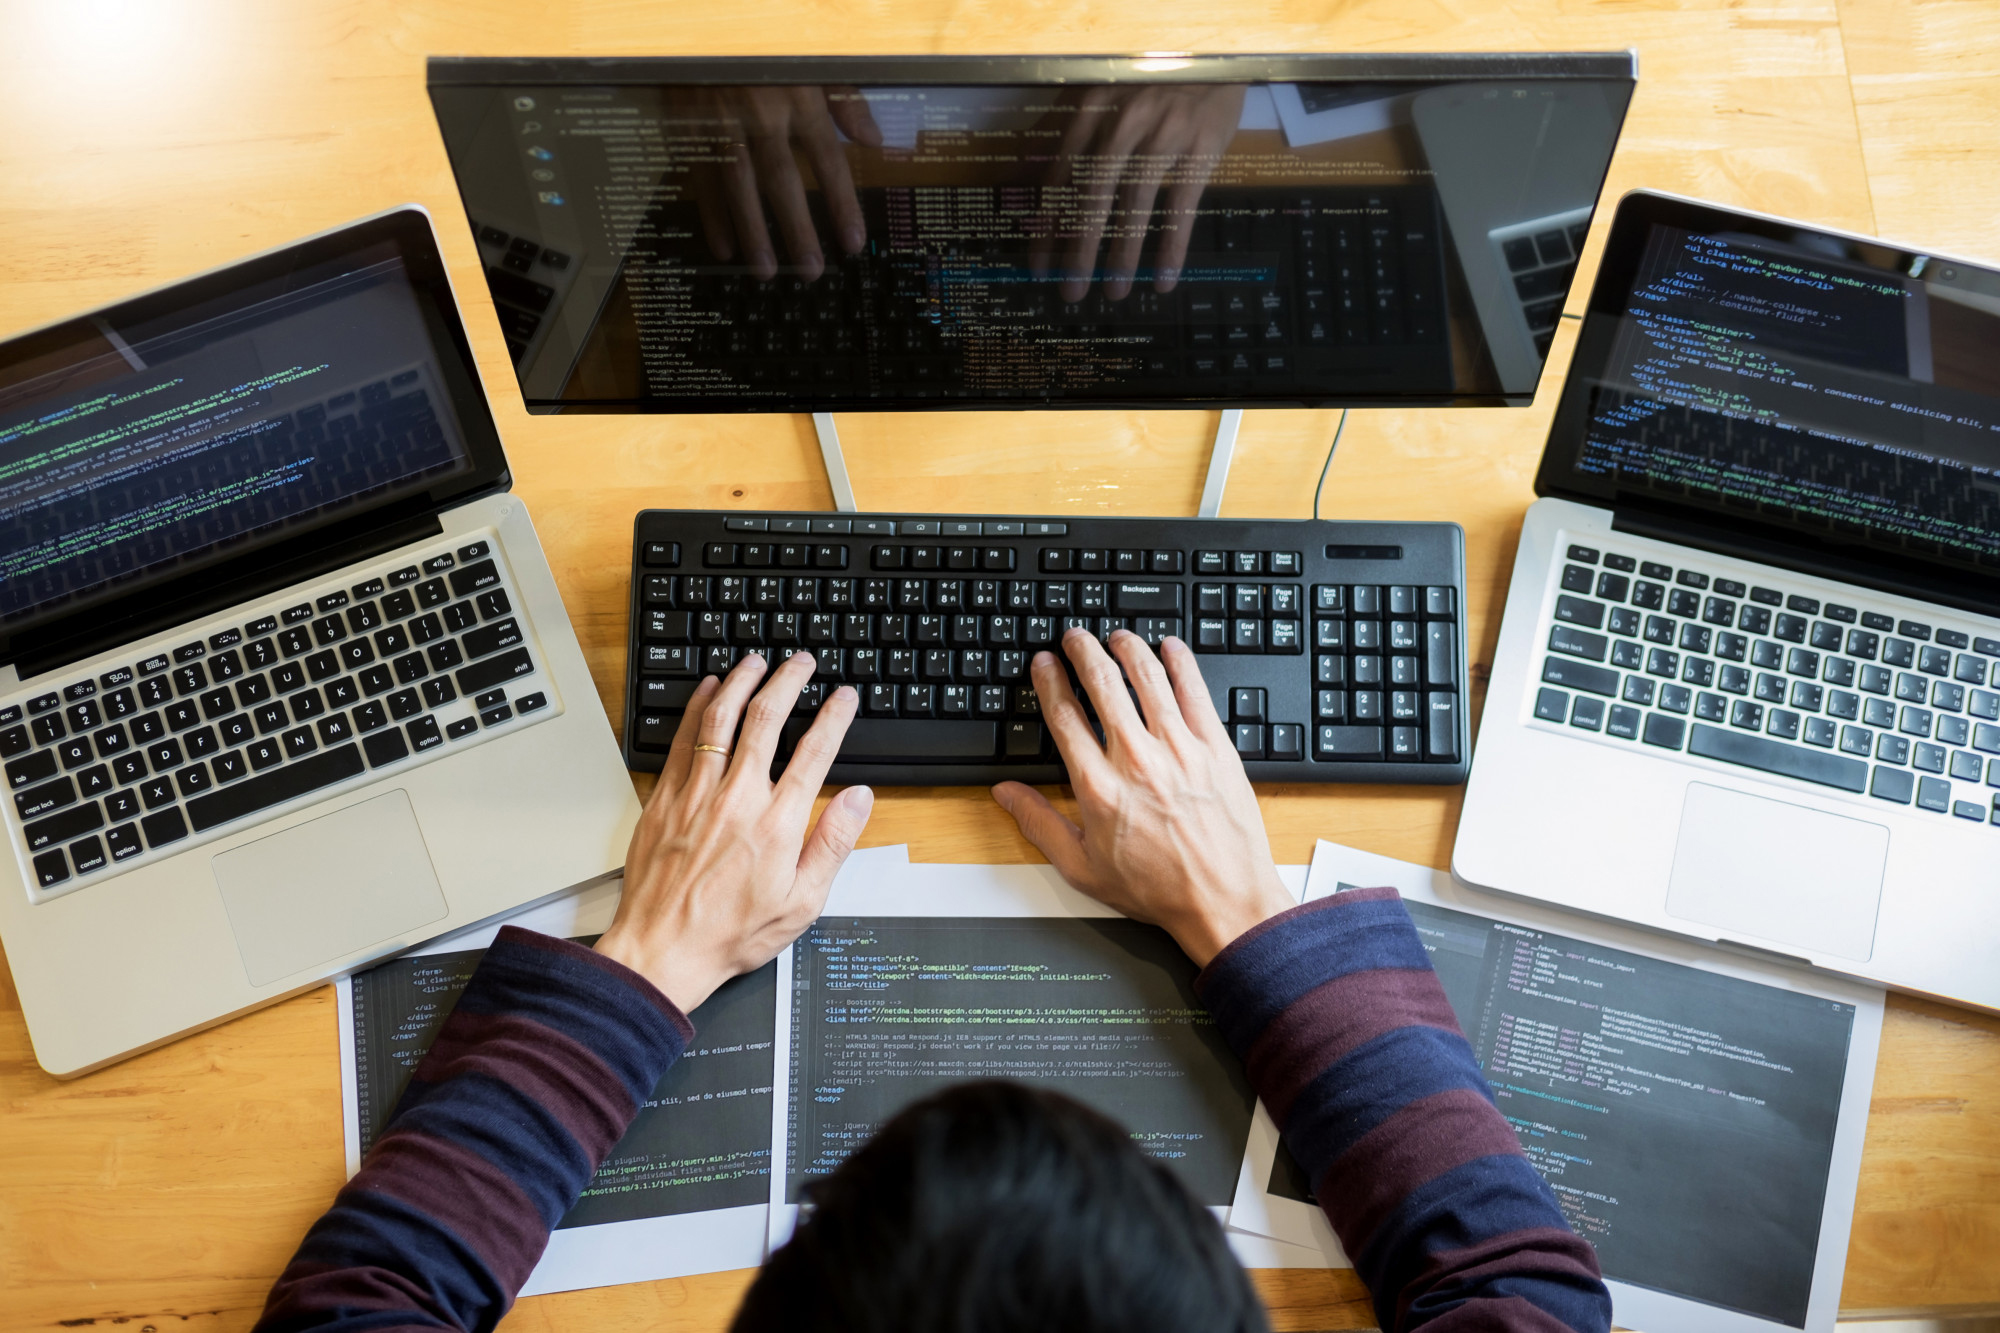
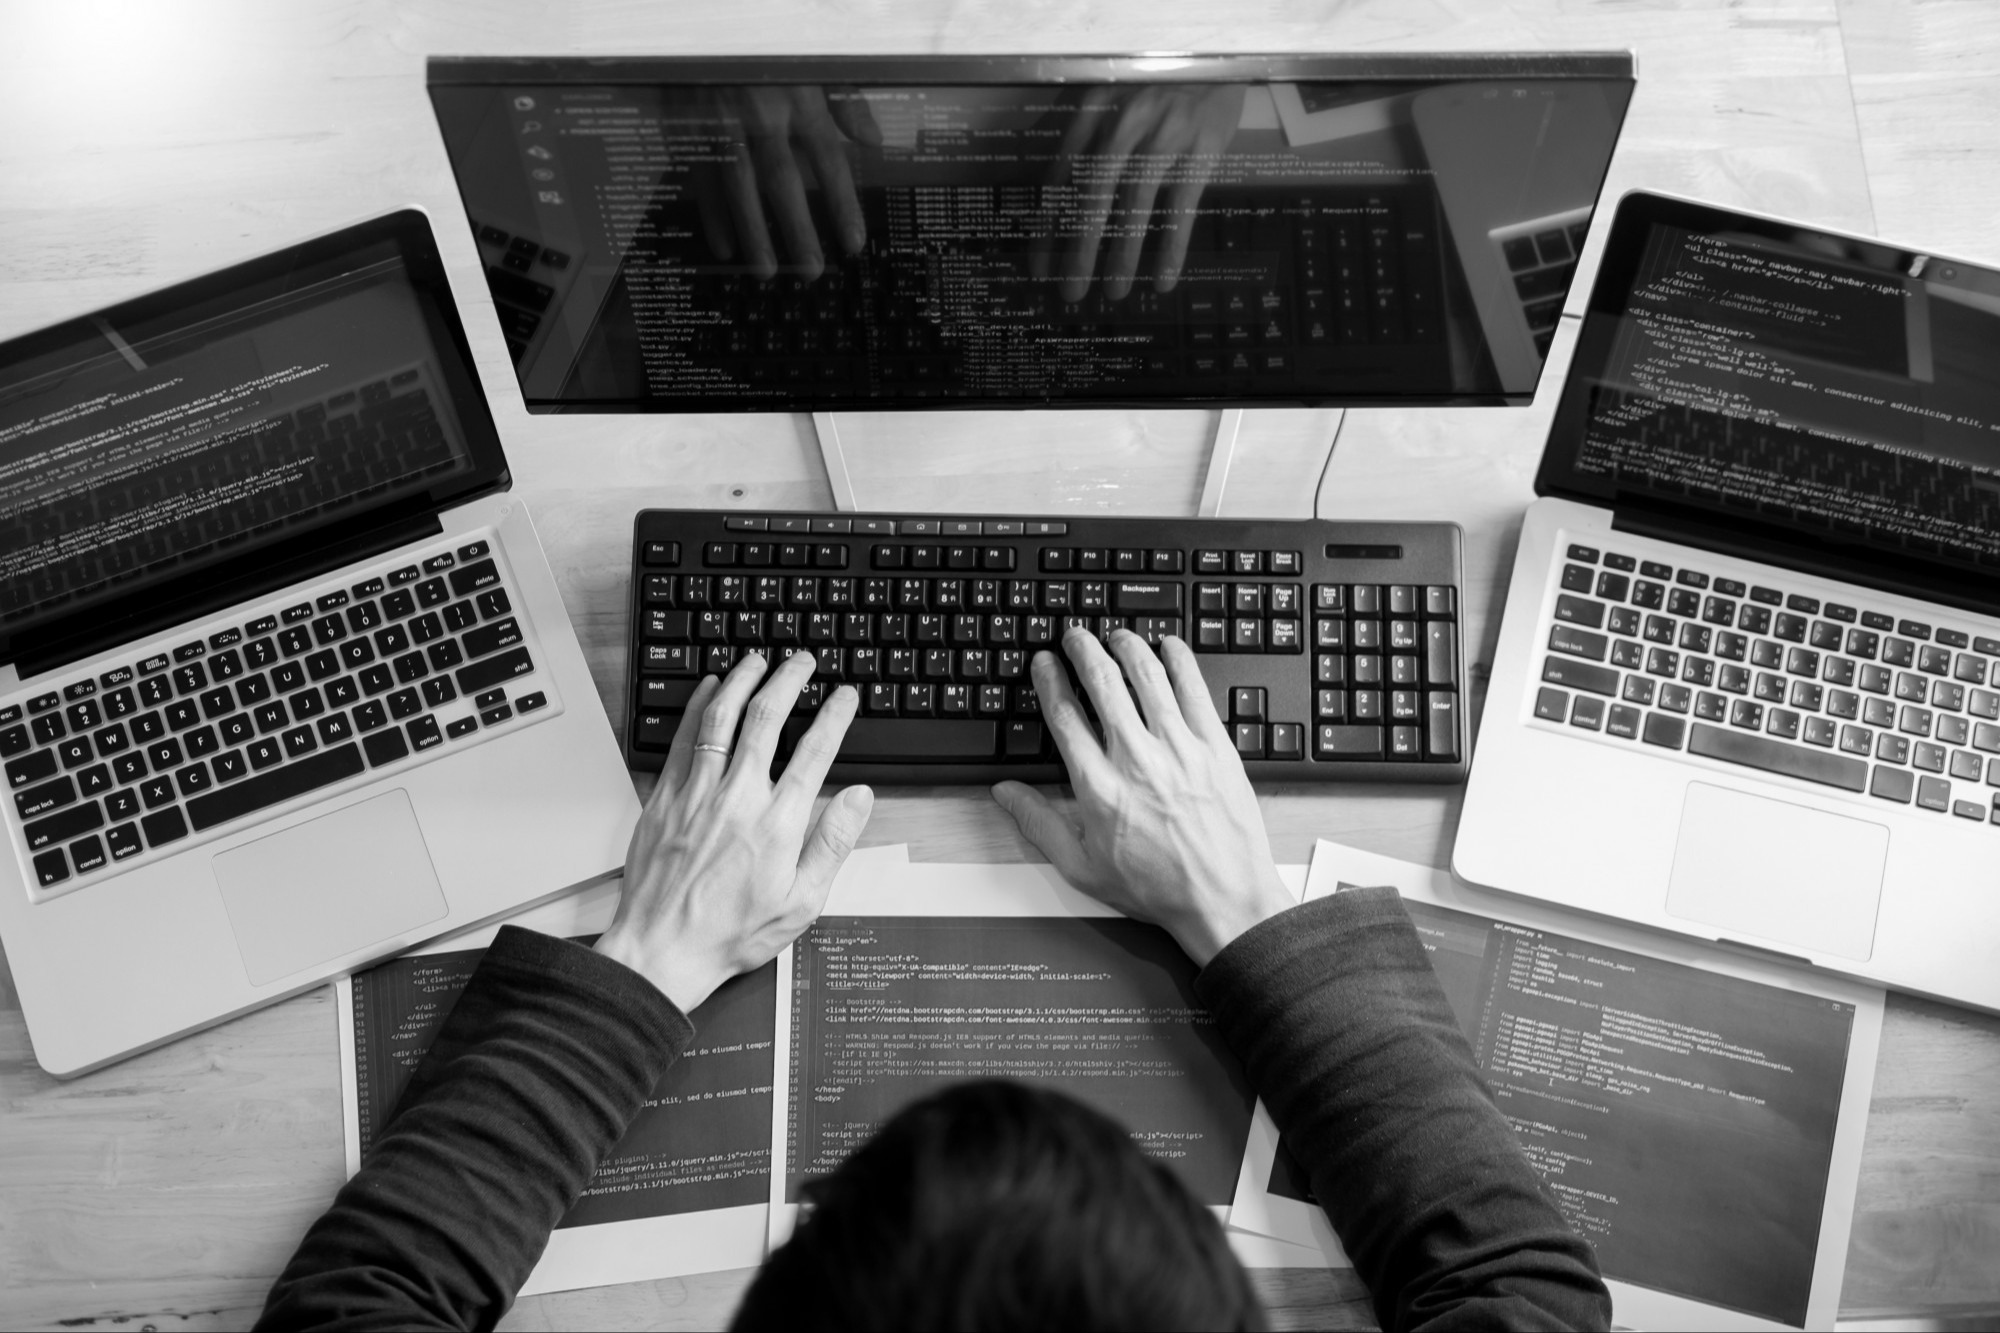
new changes

diff --git a/src/components/Hero/Hero.css b/src/components/Hero/Hero.css
@@ -1,42 +1,59 @@
 .hero {
     color: white;
+    display: flex;
+    align-items: center;
+    justify-content: center;
     text-align: center;
-    padding: 5rem 2rem;
+    height: 90vh;
     background-size: cover;
     /* Ensures the image covers the entire section */
     background-position: center;
     /* Centers the image */
-    height: 60vh;
-    /* Adjusts the height of the hero section */
+    padding: 0 2rem;
 }
 
 .hero h1 {
-    font-size: 4rem;
-    margin-bottom: 1rem;
+    font-size: 5rem;
+    line-height: 1.5;
+    display: flex;
+    flex-direction: column;
+    gap: 1rem;
+    /* Adds spacing between the words */
+    color: #3d52a0;
+    text-transform: uppercase;
+    /* Makes the text uppercase */
 }
 
-.hero p {
-    font-size: 1.5rem;
-    margin-bottom: 2rem;
-}
-
-.hero .btn {
-    background-color: white;
-    color: #4facfe;
-    padding: 0.8rem 2rem;
-    text-decoration: none;
+.hero span {
+    display: block;
+    font-size: 3rem;
+    /* Increases font size */
     font-weight: bold;
-    border-radius: 5px;
-    transition: background-color 0.3s, color 0.3s;
-}
-
-.hero .btn:hover {
-    background-color: #00f2fe;
+    /* Makes the text bold */
+    padding: 0.5rem 1rem;
+    /* Adds padding around the text */
+    margin: 0.5rem 0;
+    /* Adds margin between spans */
+    background-color: rgba(61, 82, 160, 0.8);
+    /* Adds a semi-transparent background color */
     color: white;
+    /* Changes text color to white for contrast */
+    border-radius: 5px;
+    /* Rounds the corners of the background */
+    text-shadow: 2px 2px 4px rgba(0, 0, 0, 0.5);
+    /* Adds a shadow for an attractive effect */
+    transition: transform 0.3s ease, background-color 0.3s ease;
+    /* Smooth hover effect */
 }
 
 @media (max-width: 768px) {
+
     .hero h1 {
         font-size: 2.5rem;
+    }
+
+    .hero span {
+        font-size: 2rem;
+        /* Adjusts font size for smaller screens */
     }
 }

diff --git a/src/components/Header/Header.css b/src/components/Header/Header.css
@@ -15,6 +15,7 @@
     align-items: center;
     max-width: 1200px;
     margin: 0 auto;
+    position: relative;
 }
 
 /* Logo and Company Name */
@@ -24,13 +25,13 @@
 }
 
 .logo {
-    width: 50px;
-    height: 50px;
+    width: 55px;
+    height: 55px;
     margin-right: 1rem;
 }
 
 .company-name {
-    font-size: 1.5rem;
+    font-size: 2rem;
     font-weight: bold;
     text-transform: uppercase;
 }
@@ -39,6 +40,7 @@
 .nav-links {
     display: flex;
     gap: 1.5rem;
+    transition: transform 0.3s ease;
 }
 
 .nav-links a {
@@ -53,25 +55,54 @@
     color: #3d52a0;
 }
 
-/* Responsive Design */
-@media (max-width: 768px) {
-    .nav-links {
-        display: none;
-        /* Hide navigation links on small screens */
-    }
+/* Hamburger Menu Toggle */
+.menu-toggle {
+    display: none;
+    background: none;
+    border: none;
+    font-size: 2rem;
+    color: white;
+    cursor: pointer;
+}
 
+/* Responsive Styles */
+@media (max-width: 768px) {
     .header-container {
         flex-direction: column;
         align-items: flex-start;
     }
-}
 
-@media (max-width: 768px) {
+    .menu-toggle {
+        display: block;
+    }
+
     .nav-links {
-        display: flex;
         flex-direction: column;
         gap: 1rem;
-        align-items: flex-start;
-        margin-top: 1rem;
+        position: absolute;
+        top: 100%;
+        left: 0;
+        background-color: #7091e6;
+        width: 100%;
+        padding: 1rem 2rem;
+        transform: translateY(-200%);
+        opacity: 0;
+        visibility: hidden;
+        box-shadow: 0 4px 6px rgba(0, 0, 0, 0.1);
+    }
+
+    .nav-links.open {
+        transform: translateY(0);
+        opacity: 1;
+        visibility: visible;
+    }
+
+    .logo {
+        width: 50px;
+        height: 50px;
+    }
+
+    .company-name {
+        font-size: 1.5rem;
     }
 }

diff --git a/src/components/Header/Header.js b/src/components/Header/Header.js
@@ -1,9 +1,15 @@
-import React from "react";
+import React, { useState } from "react";
 import { Link } from "react-router-dom";
 import "./Header.css";
 import logo from "../../assets/images/logo_new.png";
 
 const Header = () => {
+    const [menuOpen, setMenuOpen] = useState(false);
+
+    const toggleMenu = () => {
+        setMenuOpen(!menuOpen);
+    };
+
     return (
         <header className="header">
             <div className="header-container">
@@ -11,12 +17,15 @@ const Header = () => {
                     <img src={logo} alt="Company Logo" className="logo" />
                     <span className="company-name">KAPRA WEB AI MAKERS</span>
                 </div>
-                <nav className="nav-links">
-                    <a href="#home">Home</a>
-                    <a href="#services">Services</a>
-                    <a href="#about">About</a>
-                    <a href="#careers">Careers</a>
-                    <a href="#contact">Contact</a>
+                <button className="menu-toggle" onClick={toggleMenu}>
+                    ☰
+                </button>
+                <nav className={`nav-links ${menuOpen ? "open" : ""}`}>
+                    <a href="#home" onClick={() => setMenuOpen(false)}>Home</a>
+                    <a href="#services" onClick={() => setMenuOpen(false)}>Services</a>
+                    <a href="#about" onClick={() => setMenuOpen(false)}>About</a>
+                    <a href="#careers" onClick={() => setMenuOpen(false)}>Careers</a>
+                    <a href="#contact" onClick={() => setMenuOpen(false)}>Contact</a>
                 </nav>
             </div>
         </header>

diff --git a/src/components/Hero/Hero.js b/src/components/Hero/Hero.js
@@ -6,9 +6,11 @@ const Hero = () => {
     return (
         <section id="home" className="hero" style={{ backgroundImage: `url(${heroImage})` }}>
             <div className="hero-content">
-                <h1>Welcome to KAPRA WEB AI MAKERS</h1>
-                <p>Innovative IT solutions tailored for your business needs.</p>
-                {/* <a href="/contact" className="btn">Get Started</a> */}
+                <h1>
+                    <span>Innovate</span>
+                    <span>Accelerate</span>
+                    <span>Dominate</span>
+                </h1>
             </div>
         </section>
     );

diff --git a/src/components/Services/Services.css b/src/components/Services/Services.css
@@ -1,7 +1,8 @@
 .services {
     text-align: center;
     padding: 3rem 2rem;
-    background: #f9f9f9;
+    background: #adbbda;
+    height: 45rem;
 }
 
 .services h2 {

diff --git a/src/components/About/About.css b/src/components/About/About.css
@@ -1,6 +1,6 @@
 .about {
     padding: 3rem 2rem;
-    background: white;
+    background: #ede8f5;
     text-align: center;
 }
 
